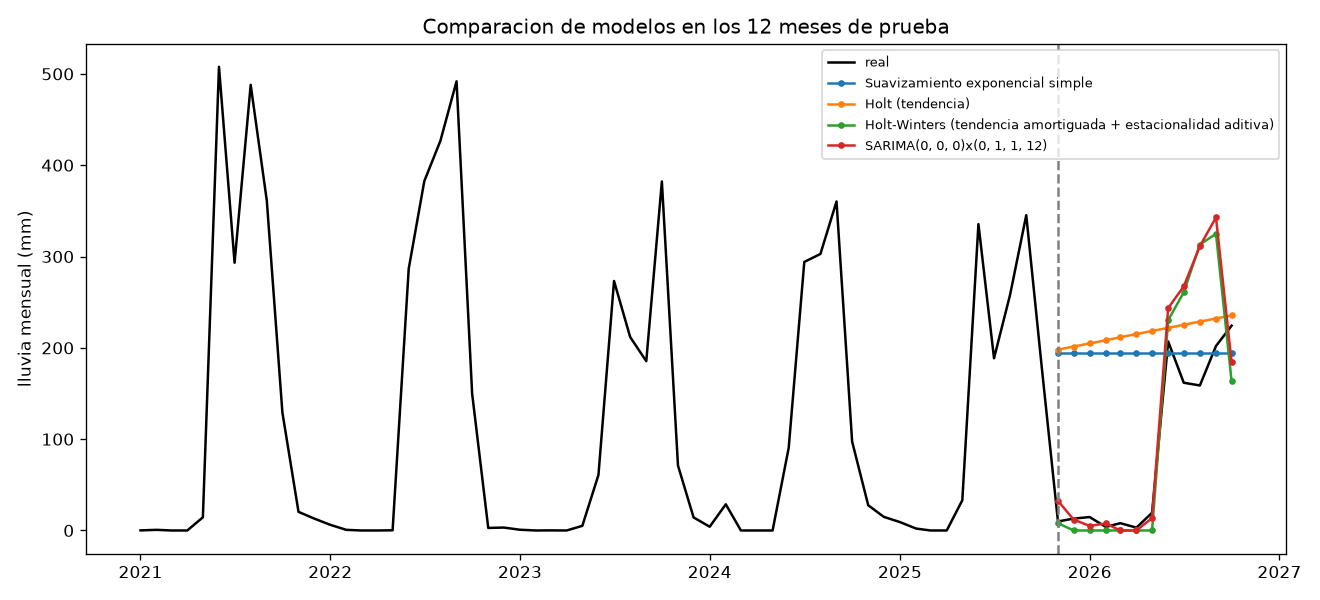
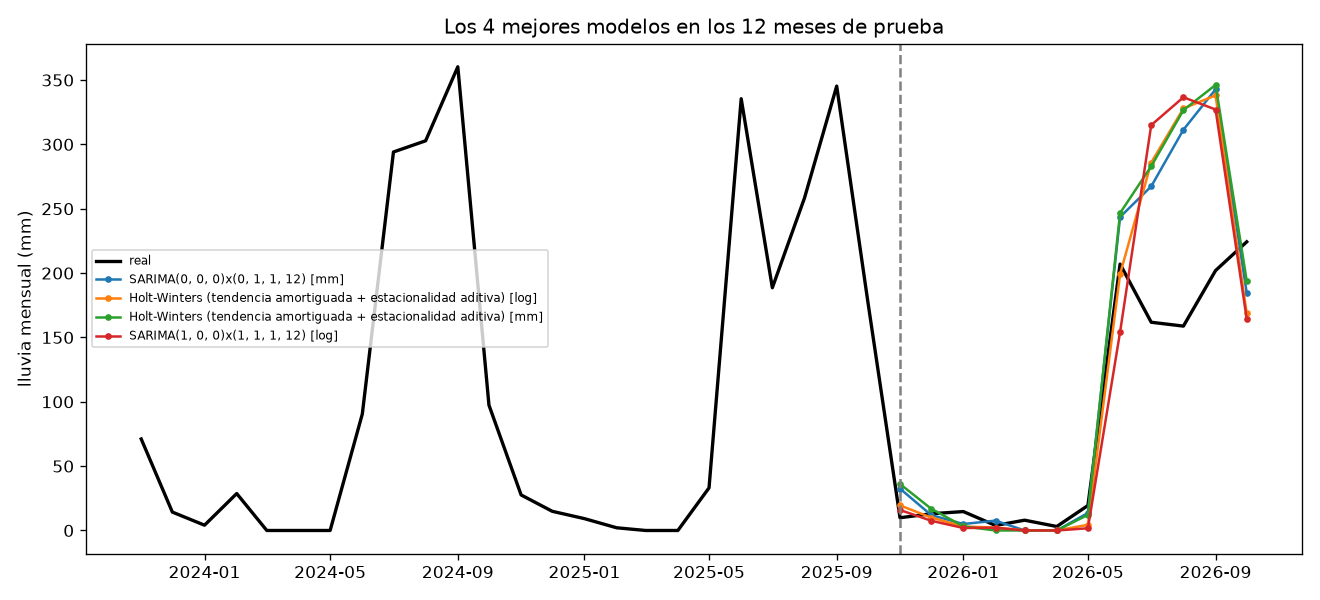
analisis: pronostico E1 (45534889075)

diff --git a/docs/E1/pronostico.md b/docs/E1/pronostico.md
@@ -24,40 +24,54 @@ Correlacion cruzada de la lluvia del mes t con la variable k meses antes:
 
 ![correlacion cruzada](figuras/correlacion_cruzada.png)
 
-## 3. Cuatro modelos y seleccion por error en prueba
-SARIMA: busqueda de ordenes por AIC en el entrenamiento; los 5 mejores: [{'orden': '(0, 0, 0)', 'estacional': '(0, 1, 1, 12)', 'AIC': np.float64(558.6)}, {'orden': '(0, 0, 0)', 'estacional': '(1, 1, 1, 12)', 'AIC': np.float64(559.2)}, {'orden': '(1, 0, 0)', 'estacional': '(0, 1, 1, 12)', 'AIC': np.float64(560.4)}, {'orden': '(0, 0, 1)', 'estacional': '(0, 1, 1, 12)', 'AIC': np.float64(560.4)}, {'orden': '(1, 0, 0)', 'estacional': '(1, 1, 1, 12)', 'AIC': np.float64(561.1)}].
+## 3. Cuatro modelos, dos escalas y seleccion por error en prueba
+Cada modelo se ajusto en dos escalas: **mm** (milimetros directos) y **log** (se modela log(1 + mm) y el pronostico se regresa a mm con exp(x) - 1). El error siempre se mide en mm sobre los 12 meses de prueba.
+SARIMA: busqueda de ordenes por AIC en el entrenamiento, por escala; los 5 mejores: {'mm': [{'orden': '(0, 0, 0)', 'estacional': '(0, 1, 1, 12)', 'AIC': 558.6}, {'orden': '(0, 0, 0)', 'estacional': '(1, 1, 1, 12)', 'AIC': 559.2}, {'orden': '(1, 0, 0)', 'estacional': '(0, 1, 1, 12)', 'AIC': 560.4}, {'orden': '(0, 0, 1)', 'estacional': '(0, 1, 1, 12)', 'AIC': 560.4}, {'orden': '(1, 0, 0)', 'estacional': '(1, 1, 1, 12)', 'AIC': 561.1}], 'log': [{'orden': '(1, 0, 0)', 'estacional': '(1, 1, 1, 12)', 'AIC': 134.2}, {'orden': '(1, 0, 0)', 'estacional': '(0, 1, 1, 12)', 'AIC': 134.3}, {'orden': '(0, 0, 1)', 'estacional': '(1, 1, 1, 12)', 'AIC': 134.4}, {'orden': '(0, 0, 1)', 'estacional': '(0, 1, 1, 12)', 'AIC': 134.5}, {'orden': '(1, 0, 0)', 'estacional': '(1, 1, 0, 12)', 'AIC': 134.7}]}.
 
-| Modelo | MAE (mm) | RMSE (mm) | MAPE* | AIC (entrenamiento) |
+| Modelo [escala] | MAE (mm) | RMSE (mm) | MAPE* | AIC (entrenamiento) |
 |---|---|---|---|---|
-| Holt-Winters (tendencia amortiguada + estacionalidad aditiva) | 43.7 | 67.0 | 73.1 % | 697.1 |
-| SARIMA(0, 0, 0)x(0, 1, 1, 12) | 44.1 | 69.5 | 74.5 % | 558.6 |
-| Suavizamiento exponencial simple | 117.1 | 141.4 | 1566.4 % | 742.3 |
-| Holt (tendencia) | 131.3 | 154.1 | 1700.3 % | 746.3 |
+| SARIMA(0, 0, 0)x(0, 1, 1, 12) [mm] | 44.1 | 69.5 | 74.5 % | 558.6 |
+| Holt-Winters (tendencia amortiguada + estacionalidad aditiva) [log] | 45.4 | 74.3 | 66.2 % | 166.7 |
+| Holt-Winters (tendencia amortiguada + estacionalidad aditiva) [mm] | 47.3 | 74.8 | 82.9 % | 700.1 |
+| SARIMA(1, 0, 0)x(1, 1, 1, 12) [log] | 52.0 | 80.5 | 70.5 % | 134.2 |
+| Suavizamiento exponencial simple [log] | 109.0 | 129.4 | 1431.4 % | 227.1 |
+| Suavizamiento exponencial simple [mm] | 117.1 | 141.4 | 1566.4 % | 742.3 |
+| Holt (tendencia) [mm] | 131.3 | 154.2 | 1700.6 % | 746.3 |
+| Holt (tendencia) [log] | 248.5 | 253.0 | 2225.2 % | 231.0 |
 
 \* MAPE calculado solo en los meses de prueba con lluvia real de 1 mm o mas (con 0 mm el porcentaje no existe).
-Criterio de seleccion: **menor MAE**. Modelo ganador: **Holt-Winters (tendencia amortiguada + estacionalidad aditiva)**.
+El AIC solo es comparable entre modelos de la misma familia y la misma escala; por eso la seleccion se hace con el error en prueba.
+Criterio de seleccion: **menor MAE**. Modelo ganador: **SARIMA(0, 0, 0)x(0, 1, 1, 12) [mm]**.
 
 ![comparacion](figuras/comparacion_modelos.png)
 
-## 4. Pronostico a 6 meses (modelo ganador reajustado con toda la serie)
+## 4. Pronostico a 12 meses (modelo ganador reajustado con toda la serie)
 | Mes | Pronostico (mm) | Intervalo de prediccion 95 % (mm) |
 |---|---|---|
-| 2026-11 | 0.0 | 0.0 a 130.5 |
-| 2026-12 | 0.0 | 0.0 a 115.8 |
-| 2027-01 | 0.0 | 0.0 a 111.3 |
-| 2027-02 | 0.0 | 0.0 a 107.7 |
-| 2027-03 | 0.0 | 0.0 a 103.2 |
-| 2027-04 | 0.0 | 0.0 a 102.5 |
+| 2026-11 | 22.9 | 0.0 a 200.8 |
+| 2026-12 | 12.9 | 0.0 a 190.8 |
+| 2027-01 | 10.1 | 0.0 a 187.9 |
+| 2027-02 | 6.3 | 0.0 a 184.1 |
+| 2027-03 | 3.7 | 0.0 a 181.6 |
+| 2027-04 | 1.4 | 0.0 a 179.3 |
+| 2027-05 | 18.2 | 0.0 a 196.1 |
+| 2027-06 | 225.3 | 47.5 a 403.2 |
+| 2027-07 | 208.1 | 30.2 a 386.0 |
+| 2027-08 | 228.7 | 50.8 a 406.6 |
+| 2027-09 | 275.3 | 97.4 a 453.2 |
+| 2027-10 | 201.1 | 23.2 a 379.0 |
 
-Los valores negativos se recortan a 0 porque no existe lluvia negativa.
+Los valores negativos se recortan a 0 porque no existe lluvia negativa. Escala del modelo ganador: **mm**.
 
 ![pronostico](figuras/pronostico.png)
 
-**Frase para el cliente:** para 2026-11 se esperan alrededor de 0 mm de lluvia en el municipio de Colima, con un rango probable de 0 a 130 mm.
+**Frases para el cliente:**
+- Para 2026-11 se esperan alrededor de 23 mm de lluvia en el municipio de Colima, con un rango probable de 0 a 201 mm.
+- Para el mes mas lluvioso del pronostico (2027-09) se esperan alrededor de 275 mm, con un rango probable de 97 a 453 mm: conviene reservar toldos y personal con anticipacion para esa temporada.
 
 ## 5. Diagnostico de residuos del modelo ganador
-- Ljung-Box (12 rezagos): estadistico 9.48, p = 0.6618 -> residuos autocorrelacionados: no.
-- Levene (primera vs segunda mitad): estadistico 2.21, p = 0.1415 -> varianza cambia: no.
-- Shapiro-Wilk: estadistico 0.947, p = 0.0052 -> residuos no normales: si.
+- Ljung-Box (12 rezagos): estadistico 7.33, p = 0.8347 -> residuos autocorrelacionados: no.
+- Levene (primera vs segunda mitad): estadistico 0.87, p = 0.3541 -> varianza cambia: no.
+- Shapiro-Wilk: estadistico 0.85, p = 0.0 -> residuos no normales: si.
 
 ![residuos](figuras/residuos.png)
